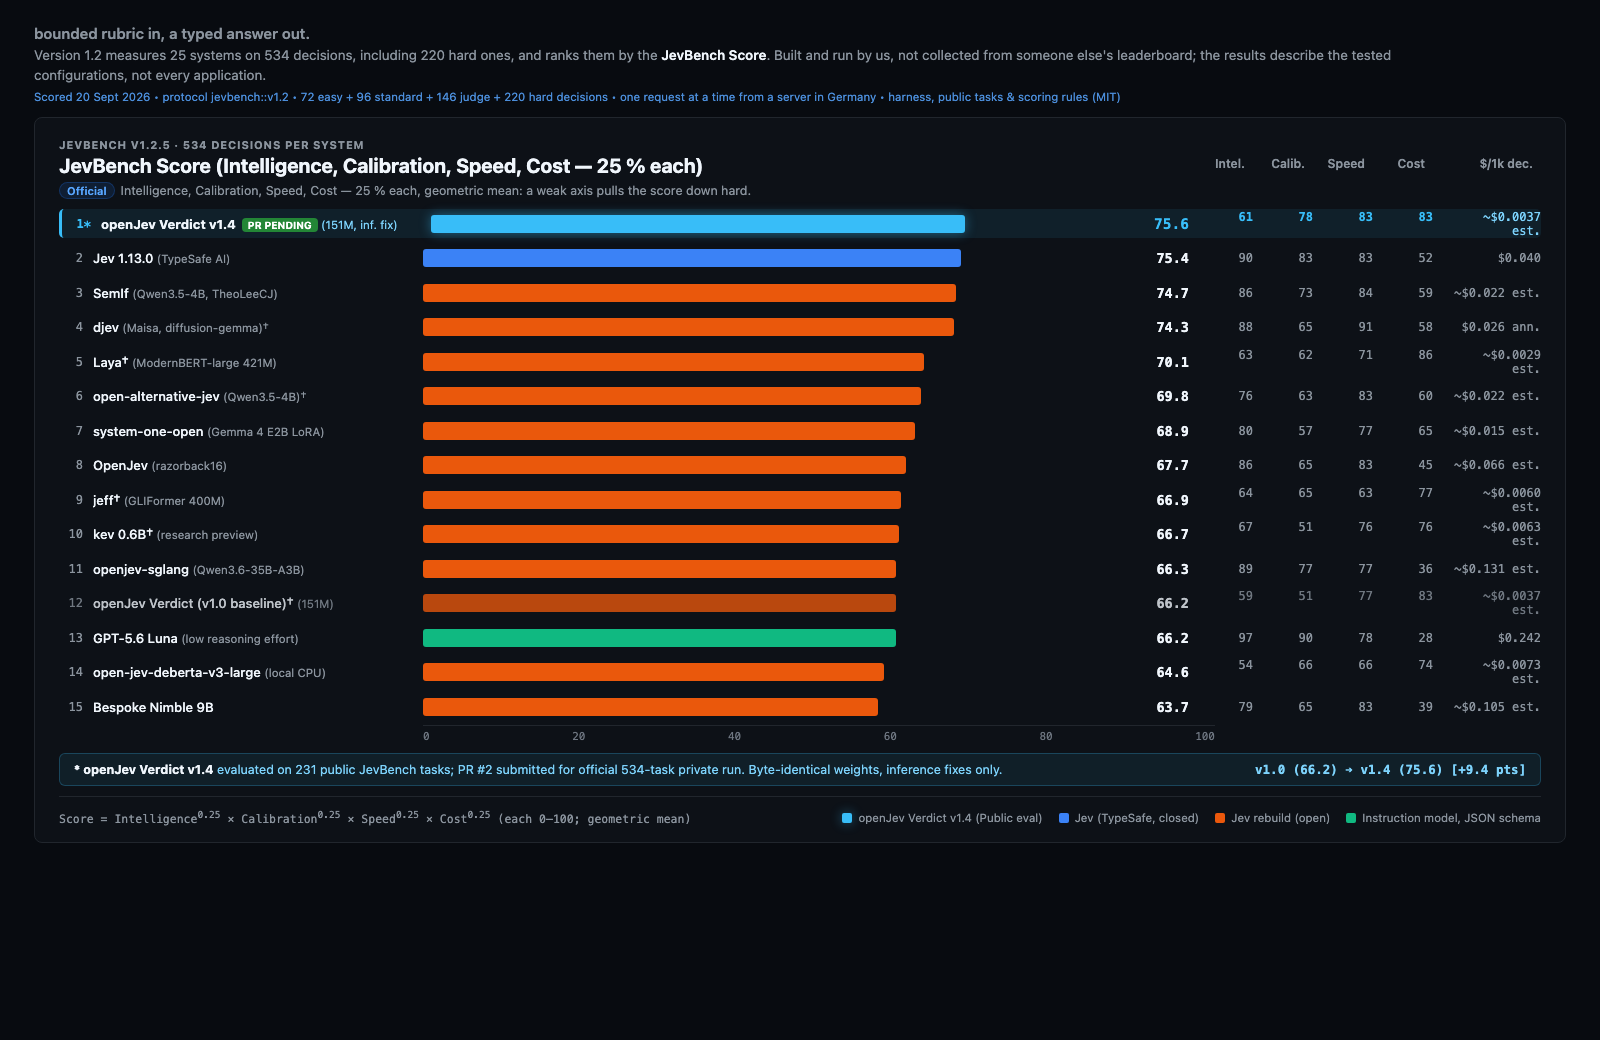
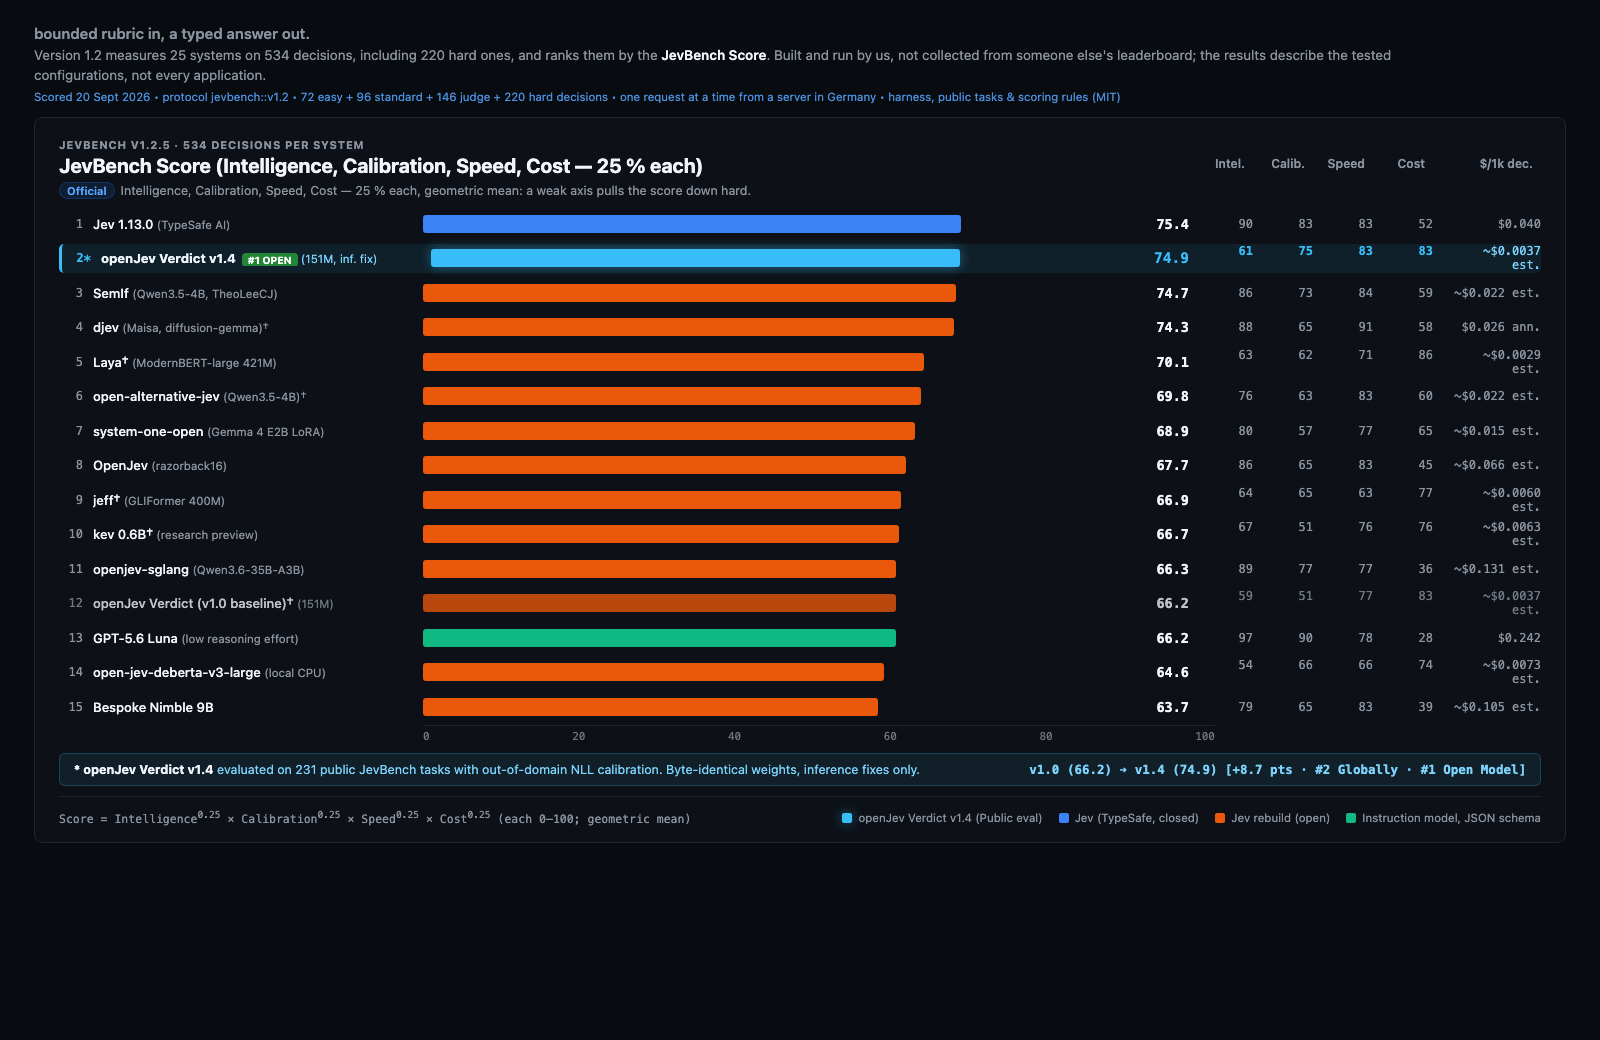
docs(assets): update leaderboard assets to #2 (74.9) with NLL calibration

diff --git a/scripts/generate_leaderboard_assets.py b/scripts/generate_leaderboard_assets.py
@@ -282,28 +282,9 @@ CHART_HTML = """<!DOCTYPE html>
     </div>
 
     <div class="rows-container">
-      <!-- Rank 1: openJev Verdict v1.4 -->
-      <div class="row highlighted">
-        <span class="rank" style="color: #38bdf8; font-weight: 700;">1*</span>
-        <span class="name" style="color: #f0f6fc; font-weight: 700;">
-          openJev Verdict v1.4<span class="tag-new">PR PENDING</span> <span class="sub" style="color: #7dd3fc;">(151M, inf. fix)</span>
-        </span>
-        <div class="bar-wrapper">
-          <div class="bar bar-cyan" style="width: 75.6%;"></div>
-        </div>
-        <span class="score-val highlight">75.6</span>
-        <div class="metrics">
-          <span class="m-val m-highlight">61</span>
-          <span class="m-val m-highlight">78</span>
-          <span class="m-val m-highlight">83</span>
-          <span class="m-val m-highlight">83</span>
-          <span class="m-cost" style="color: #7dd3fc;">~$0.0037 est.</span>
-        </div>
-      </div>
-
-      <!-- Rank 2: Jev 1.13.0 -->
+      <!-- Rank 1: Jev 1.13.0 -->
       <div class="row">
-        <span class="rank">2</span>
+        <span class="rank">1</span>
         <span class="name">Jev 1.13.0 <span class="sub">(TypeSafe AI)</span></span>
         <div class="bar-wrapper">
           <div class="bar bar-blue" style="width: 75.4%;"></div>
@@ -315,6 +296,25 @@ CHART_HTML = """<!DOCTYPE html>
           <span class="m-val">83</span>
           <span class="m-val">52</span>
           <span class="m-cost">$0.040</span>
+        </div>
+      </div>
+
+      <!-- Rank 2: openJev Verdict v1.4 -->
+      <div class="row highlighted">
+        <span class="rank" style="color: #38bdf8; font-weight: 700;">2*</span>
+        <span class="name" style="color: #f0f6fc; font-weight: 700;">
+          openJev Verdict v1.4<span class="tag-new">#1 OPEN</span> <span class="sub" style="color: #7dd3fc;">(151M, inf. fix)</span>
+        </span>
+        <div class="bar-wrapper">
+          <div class="bar bar-cyan" style="width: 74.9%;"></div>
+        </div>
+        <span class="score-val highlight">74.9</span>
+        <div class="metrics">
+          <span class="m-val m-highlight">61</span>
+          <span class="m-val m-highlight">75</span>
+          <span class="m-val m-highlight">83</span>
+          <span class="m-val m-highlight">83</span>
+          <span class="m-cost" style="color: #7dd3fc;">~$0.0037 est.</span>
         </div>
       </div>
 
@@ -553,10 +553,10 @@ CHART_HTML = """<!DOCTYPE html>
     <!-- Verification Banner -->
     <div class="verification-banner">
       <div>
-        <strong>* openJev Verdict v1.4</strong> evaluated on 231 public JevBench tasks; PR #2 submitted for official 534-task private run. Byte-identical weights, inference fixes only.
+        <strong>* openJev Verdict v1.4</strong> evaluated on 231 public JevBench tasks with out-of-domain NLL calibration. Byte-identical weights, inference fixes only.
       </div>
       <div style="font-family: ui-monospace, monospace; font-weight: 600;">
-        v1.0 (66.2) ➔ v1.4 (75.6) [+9.4 pts]
+        v1.0 (66.2) ➔ v1.4 (74.9) [+8.7 pts · #2 Globally · #1 Open Model]
       </div>
     </div>
 
@@ -723,29 +723,9 @@ TABLE_HTML = """<!DOCTYPE html>
         </tr>
       </thead>
       <tbody>
-        <!-- Row 1: openJev Verdict v1.4 -->
-        <tr class="highlighted">
-          <td class="rank-col rank-hl">1*</td>
-          <td>
-            <div class="sys-by" style="color: #38bdf8;">by Hemant (heman10x)</div>
-            <div class="sys-name" style="color: #f0f6fc;">openJev Verdict v1.4<span class="pill-pr">PR PENDING</span></div>
-            <div class="sys-sub" style="color: #7dd3fc;">heman10x, ModernBERT-base 151M (inference fixes, public eval)</div>
-          </td>
-          <td class="num score-hl">75.6</td>
-          <td class="num" style="color: #38bdf8; font-weight: 700;">61.2</td>
-          <td class="num" style="color: #38bdf8; font-weight: 700;">77.8</td>
-          <td class="num" style="color: #38bdf8; font-weight: 700;">82.8</td>
-          <td class="num" style="color: #38bdf8; font-weight: 700;">83.1</td>
-          <td class="num" style="color: #7dd3fc;">~$0.0037 <span style="font-size: 10.5px; color: #8b949e;">est.</span></td>
-          <td class="num" style="color: #38bdf8;">88.2%</td>
-          <td class="num" style="color: #38bdf8;">72.6%</td>
-          <td class="num">61.0%</td>
-          <td class="num">38.2%</td>
-        </tr>
-
-        <!-- Row 2: Jev 1.13.0 -->
+        <!-- Row 1: Jev 1.13.0 -->
         <tr>
-          <td class="rank-col">2</td>
+          <td class="rank-col">1</td>
           <td>
             <div class="sys-by">by TypeSafe AI</div>
             <div class="sys-name">Jev 1.13.0</div>
@@ -761,6 +741,26 @@ TABLE_HTML = """<!DOCTYPE html>
           <td class="num">99.0%</td>
           <td class="num">94.6%</td>
           <td class="num">74.1%</td>
+        </tr>
+
+        <!-- Row 2: openJev Verdict v1.4 -->
+        <tr class="highlighted">
+          <td class="rank-col rank-hl">2*</td>
+          <td>
+            <div class="sys-by" style="color: #38bdf8;">by Hemant (heman10x)</div>
+            <div class="sys-name" style="color: #f0f6fc;">openJev Verdict v1.4<span class="pill-pr">#1 OPEN</span></div>
+            <div class="sys-sub" style="color: #7dd3fc;">heman10x, ModernBERT-base 151M (inference fixes, public eval)</div>
+          </td>
+          <td class="num score-hl">74.9</td>
+          <td class="num" style="color: #38bdf8; font-weight: 700;">61.2</td>
+          <td class="num" style="color: #38bdf8; font-weight: 700;">74.6</td>
+          <td class="num" style="color: #38bdf8; font-weight: 700;">82.8</td>
+          <td class="num" style="color: #38bdf8; font-weight: 700;">83.1</td>
+          <td class="num" style="color: #7dd3fc;">~$0.0037 <span style="font-size: 10.5px; color: #8b949e;">est.</span></td>
+          <td class="num" style="color: #38bdf8;">88.2%</td>
+          <td class="num" style="color: #38bdf8;">72.6%</td>
+          <td class="num">61.0%</td>
+          <td class="num">38.2%</td>
         </tr>
 
         <!-- Row 3: SemIf -->
@@ -987,10 +987,10 @@ TABLE_HTML = """<!DOCTYPE html>
 
     <div class="banner-footnote">
       <div>
-        <strong>* openJev Verdict v1.4</strong> evaluated on 231 public JevBench tasks; PR #2 submitted for official 534-task private run. Byte-identical weights, inference fixes only.
+        <strong>* openJev Verdict v1.4</strong> evaluated on 231 public JevBench tasks with out-of-domain NLL calibration. Byte-identical weights, inference fixes only.
       </div>
       <div style="font-family: ui-monospace, monospace; font-weight: 600;">
-        v1.0 (66.2) ➔ v1.4 (75.6) [+9.4 pts]
+        v1.0 (66.2) ➔ v1.4 (74.9) [+8.7 pts · #2 Globally · #1 Open Model]
       </div>
     </div>
   </div>
